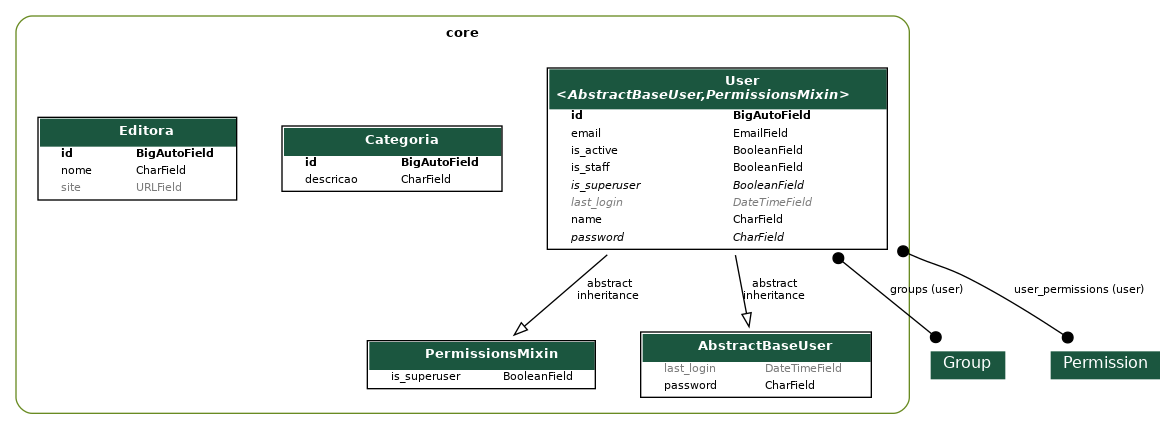
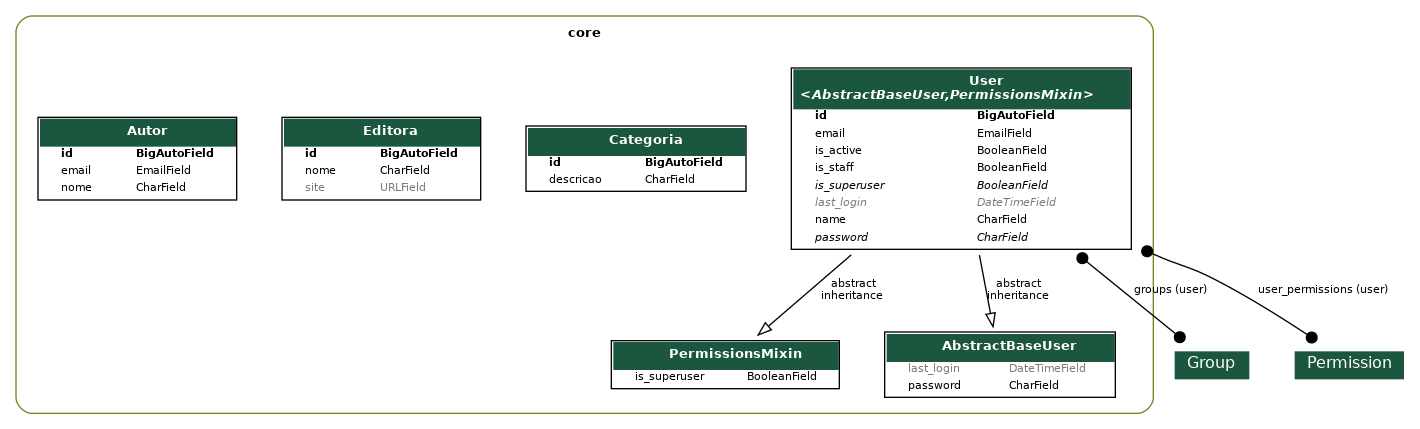
criação da API para Autor

diff --git a/core/migrations/0004_autor_alter_editora_site.py b/core/migrations/0004_autor_alter_editora_site.py
@@ -1,0 +1,26 @@
+# Generated by Django 5.0.2 on 2024-03-25 13:56
+
+from django.db import migrations, models
+
+
+class Migration(migrations.Migration):
+
+    dependencies = [
+        ("core", "0003_editora"),
+    ]
+
+    operations = [
+        migrations.CreateModel(
+            name="Autor",
+            fields=[
+                ("id", models.BigAutoField(auto_created=True, primary_key=True, serialize=False, verbose_name="ID")),
+                ("nome", models.CharField(max_length=100)),
+                ("email", models.EmailField(max_length=100)),
+            ],
+        ),
+        migrations.AlterField(
+            model_name="editora",
+            name="site",
+            field=models.URLField(blank=True, max_length=100, null=True),
+        ),
+    ]

diff --git a/app/urls.py b/app/urls.py
@@ -9,12 +9,13 @@ from drf_spectacular.views import (
 from rest_framework.routers import DefaultRouter
 from rest_framework_simplejwt.views import TokenObtainPairView, TokenRefreshView
 
-from core.views import UserViewSet, CategoriaViewSet, EditoraViewSet
+from core.views import UserViewSet, CategoriaViewSet, EditoraViewSet, AutorViewSet
 
 router = DefaultRouter()
 router.register(r"categorias", CategoriaViewSet, basename="categorias")
 router.register(r"users", UserViewSet, basename="users")
-router.register(r"editoras", EditoraViewSet)
+router.register(r"editoras", EditoraViewSet, basename="editoras")
+router.register(r"autores", AutorViewSet, basename="autores")
 
 urlpatterns = [
     path("admin/", admin.site.urls),

diff --git a/core/models/editora.py b/core/models/editora.py
@@ -2,7 +2,7 @@ from django.db import models
 
 class Editora(models.Model):
     nome = models.CharField(max_length=100)
-    site = models.URLField(max_length=200, blank=True, null=True)
+    site = models.URLField(max_length = 100, blank=True, null=True)
 
     def __str__(self):
-        return self.nome
+        return {self.nome}

diff --git a/core/views/autor.py b/core/views/autor.py
@@ -1,0 +1,8 @@
+from rest_framework.viewsets import ModelViewSet
+
+from core.models import Autor
+from core.serializers import AutorSerializer
+
+class AutorViewSet(ModelViewSet):
+    queryset = Autor.objects.all()
+    serializer_class = AutorSerializer

diff --git a/core/models/autor.py b/core/models/autor.py
@@ -1,0 +1,8 @@
+from django.db import models
+
+class Autor(models.Model):
+    nome = models.CharField(max_length=100)
+    email = models.EmailField(max_length=100)
+
+    def __str__(self):
+        return self.nome

diff --git a/core/serializers/autor.py b/core/serializers/autor.py
@@ -1,0 +1,8 @@
+from rest_framework.serializers import ModelSerializer
+
+from core.models import Autor
+...
+class AutorSerializer(ModelSerializer):
+    class Meta:
+        model = Autor
+        fields = "__all__"

diff --git a/core/admin.py b/core/admin.py
@@ -51,3 +51,4 @@ class UserAdmin(BaseUserAdmin):
 admin.site.register(models.User, UserAdmin)
 admin.site.register(models.Categoria)
 admin.site.register(models.Editora)
+admin.site.register(models.Autor)

diff --git a/core/serializers/__init__.py b/core/serializers/__init__.py
@@ -1,3 +1,4 @@
 from .user import UserSerializer
 from .categoria import CategoriaSerializer
 from .editora import EditoraSerializer
+from .autor import AutorSerializer

diff --git a/core/views/__init__.py b/core/views/__init__.py
@@ -1,3 +1,4 @@
 from .user import UserViewSet
 from .categoria import CategoriaViewSet
 from .editora import EditoraViewSet
+from .autor import AutorViewSet

diff --git a/core/models/__init__.py b/core/models/__init__.py
@@ -1,3 +1,4 @@
 from .user import User
 from .categoria import Categoria
 from .editora import Editora
+from .autor import Autor
